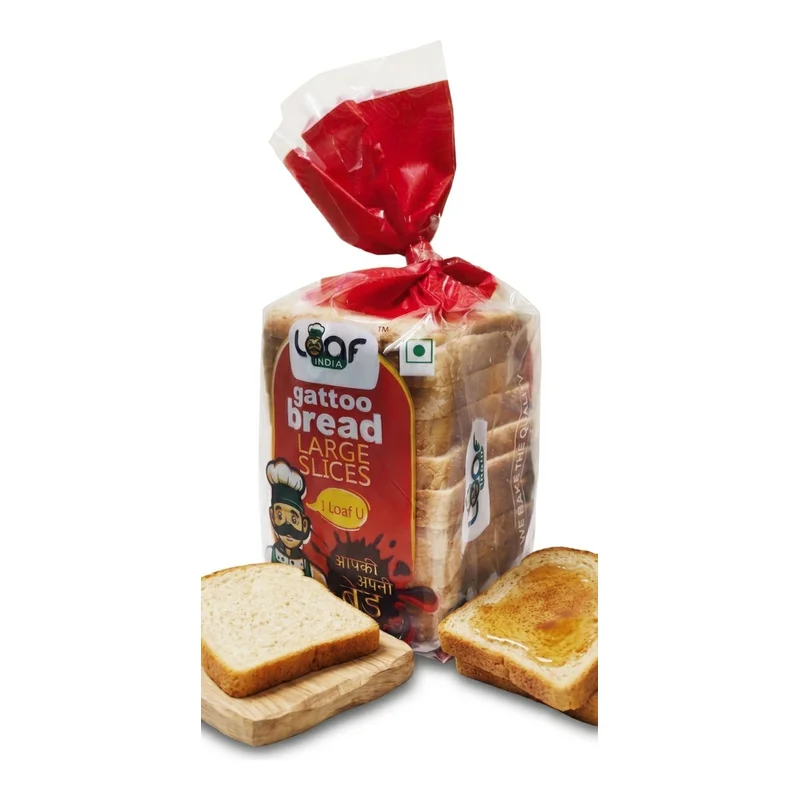
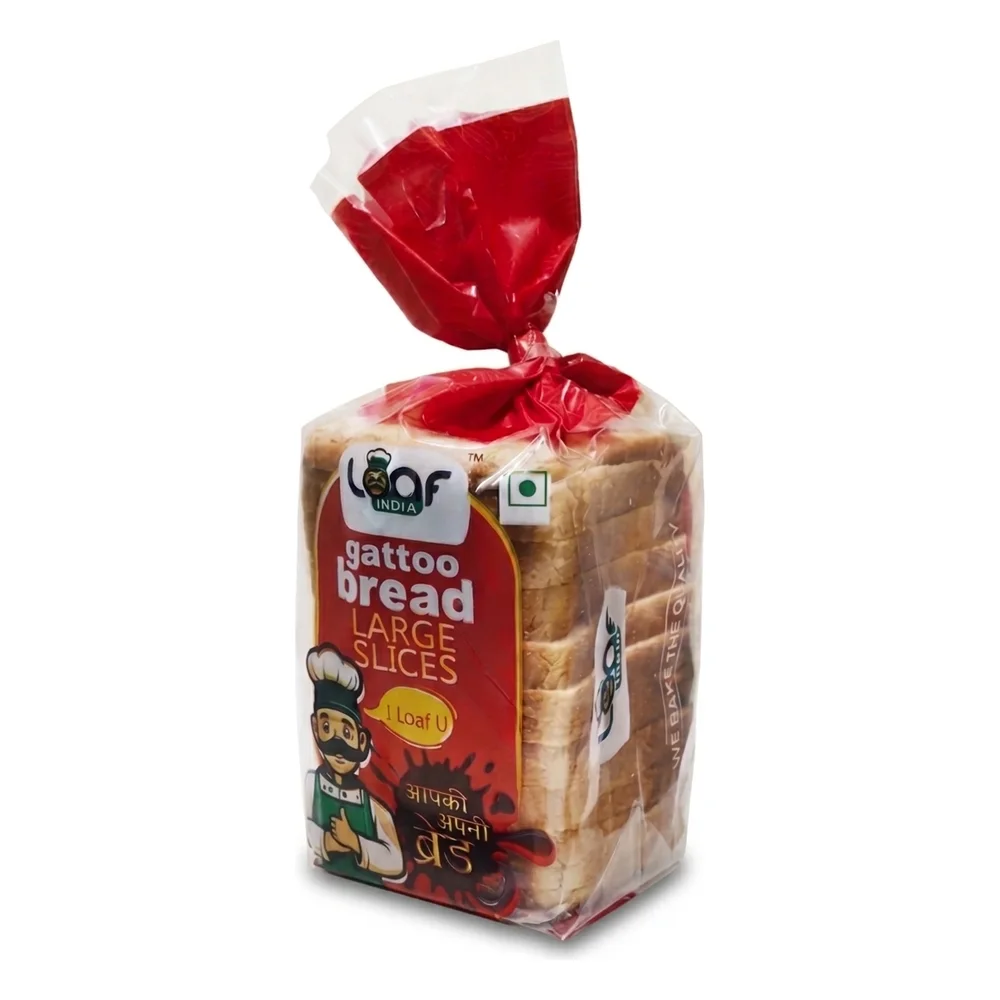
Add product details page, photos and product tools
Claude-Session: https://claude.ai/code/session_01CAzF3ZRK32RTWHmDHFJZk8

Changed region(s): [[0.25, 0.0938, 0.75, 0.9688]]

diff --git a/tools/common.py b/tools/common.py
@@ -55,14 +55,58 @@ def find_photo(name):
 
 def list_photos():
     try:
-        return sorted(f for f in os.listdir(DL) if f.lower().endswith(PHOTO_EXT))
+        return sorted(f for f in os.listdir(DL) if f.lower().endswith(PHOTO_EXT) and not f.startswith('.'))
     except OSError:
         return []
 
 
+SIZE = 1000      # finished photos are SIZE x SIZE pixels (square, as the site shows them)
+MARGIN = 40      # breathing space around the product
+
+
+def _plain_light_border(im):
+    """True when the photo has a plain white / very light edge (a studio-style shot)."""
+    w, h = im.size
+    px = im.load()
+    pts = []
+    for i in range(0, w, max(1, w // 40)):
+        pts += [(i, 1), (i, h - 2)]
+    for j in range(0, h, max(1, h // 40)):
+        pts += [(1, j), (w - 2, j)]
+    ok = sum(1 for p in pts if min(px[p]) >= 232)
+    return ok / float(len(pts)) >= 0.95
+
+
+def _square(im):
+    """Make a SIZE x SIZE photo without cutting the product.
+    - Plain light background: trim the empty margin, centre the product on white.
+    - Busy background (kitchen, table...): keep the whole picture and fill the sides
+      with a soft blurred copy of it."""
+    from PIL import Image, ImageChops, ImageFilter
+    if _plain_light_border(im):
+        diff = ImageChops.difference(im, Image.new('RGB', im.size, (255, 255, 255))).convert('L')
+        box = diff.point(lambda p: 255 if p > 14 else 0).getbbox()
+        if box:
+            im = im.crop(box)
+        fg = im.copy()
+        fg.thumbnail((SIZE - 2 * MARGIN, SIZE - 2 * MARGIN), Image.LANCZOS)
+        canvas = Image.new('RGB', (SIZE, SIZE), (255, 255, 255))
+        canvas.paste(fg, ((SIZE - fg.width) // 2, (SIZE - fg.height) // 2))
+        return canvas
+    scale = SIZE / float(min(im.size))
+    bg = im.resize((max(SIZE, int(im.width * scale)), max(SIZE, int(im.height * scale))), Image.LANCZOS)
+    left, top = (bg.width - SIZE) // 2, (bg.height - SIZE) // 2
+    bg = bg.crop((left, top, left + SIZE, top + SIZE)).filter(ImageFilter.GaussianBlur(28))
+    fg = im.copy()
+    fg.thumbnail((SIZE, SIZE), Image.LANCZOS)
+    bg.paste(fg, ((SIZE - fg.width) // 2, (SIZE - fg.height) // 2))
+    return bg
+
+
 def save_photo(src, out_base):
-    """Copy a photo into assets/images/products. If Pillow is installed, shrink it
-    to 1000 px and save as .webp (small and fast). Returns the saved file name."""
+    """Save a photo into assets/images/products.
+    With Pillow installed it is made square (see _square) and saved as a small .webp.
+    Without Pillow it is simply copied. Returns the saved file name."""
     folder = os.path.join(REPO, 'assets', 'images', 'products')
     os.makedirs(folder, exist_ok=True)
     try:
@@ -75,14 +119,13 @@ def save_photo(src, out_base):
             im = bg
         else:
             im = im.convert('RGB')
-        im.thumbnail((1000, 1000))
         name = out_base + '.webp'
-        im.save(os.path.join(folder, name), 'WEBP', quality=85)
+        _square(im).save(os.path.join(folder, name), 'WEBP', quality=84)
         return name
     except ImportError:
         name = out_base + os.path.splitext(src)[1].lower()
         shutil.copy(src, os.path.join(folder, name))
-        print('   (tip: run  pkg install python-pillow  once, and photos will be shrunk automatically)')
+        print('   (tip: run  pip install pillow  once, and photos will be made square and small automatically)')
         return name
 
 
